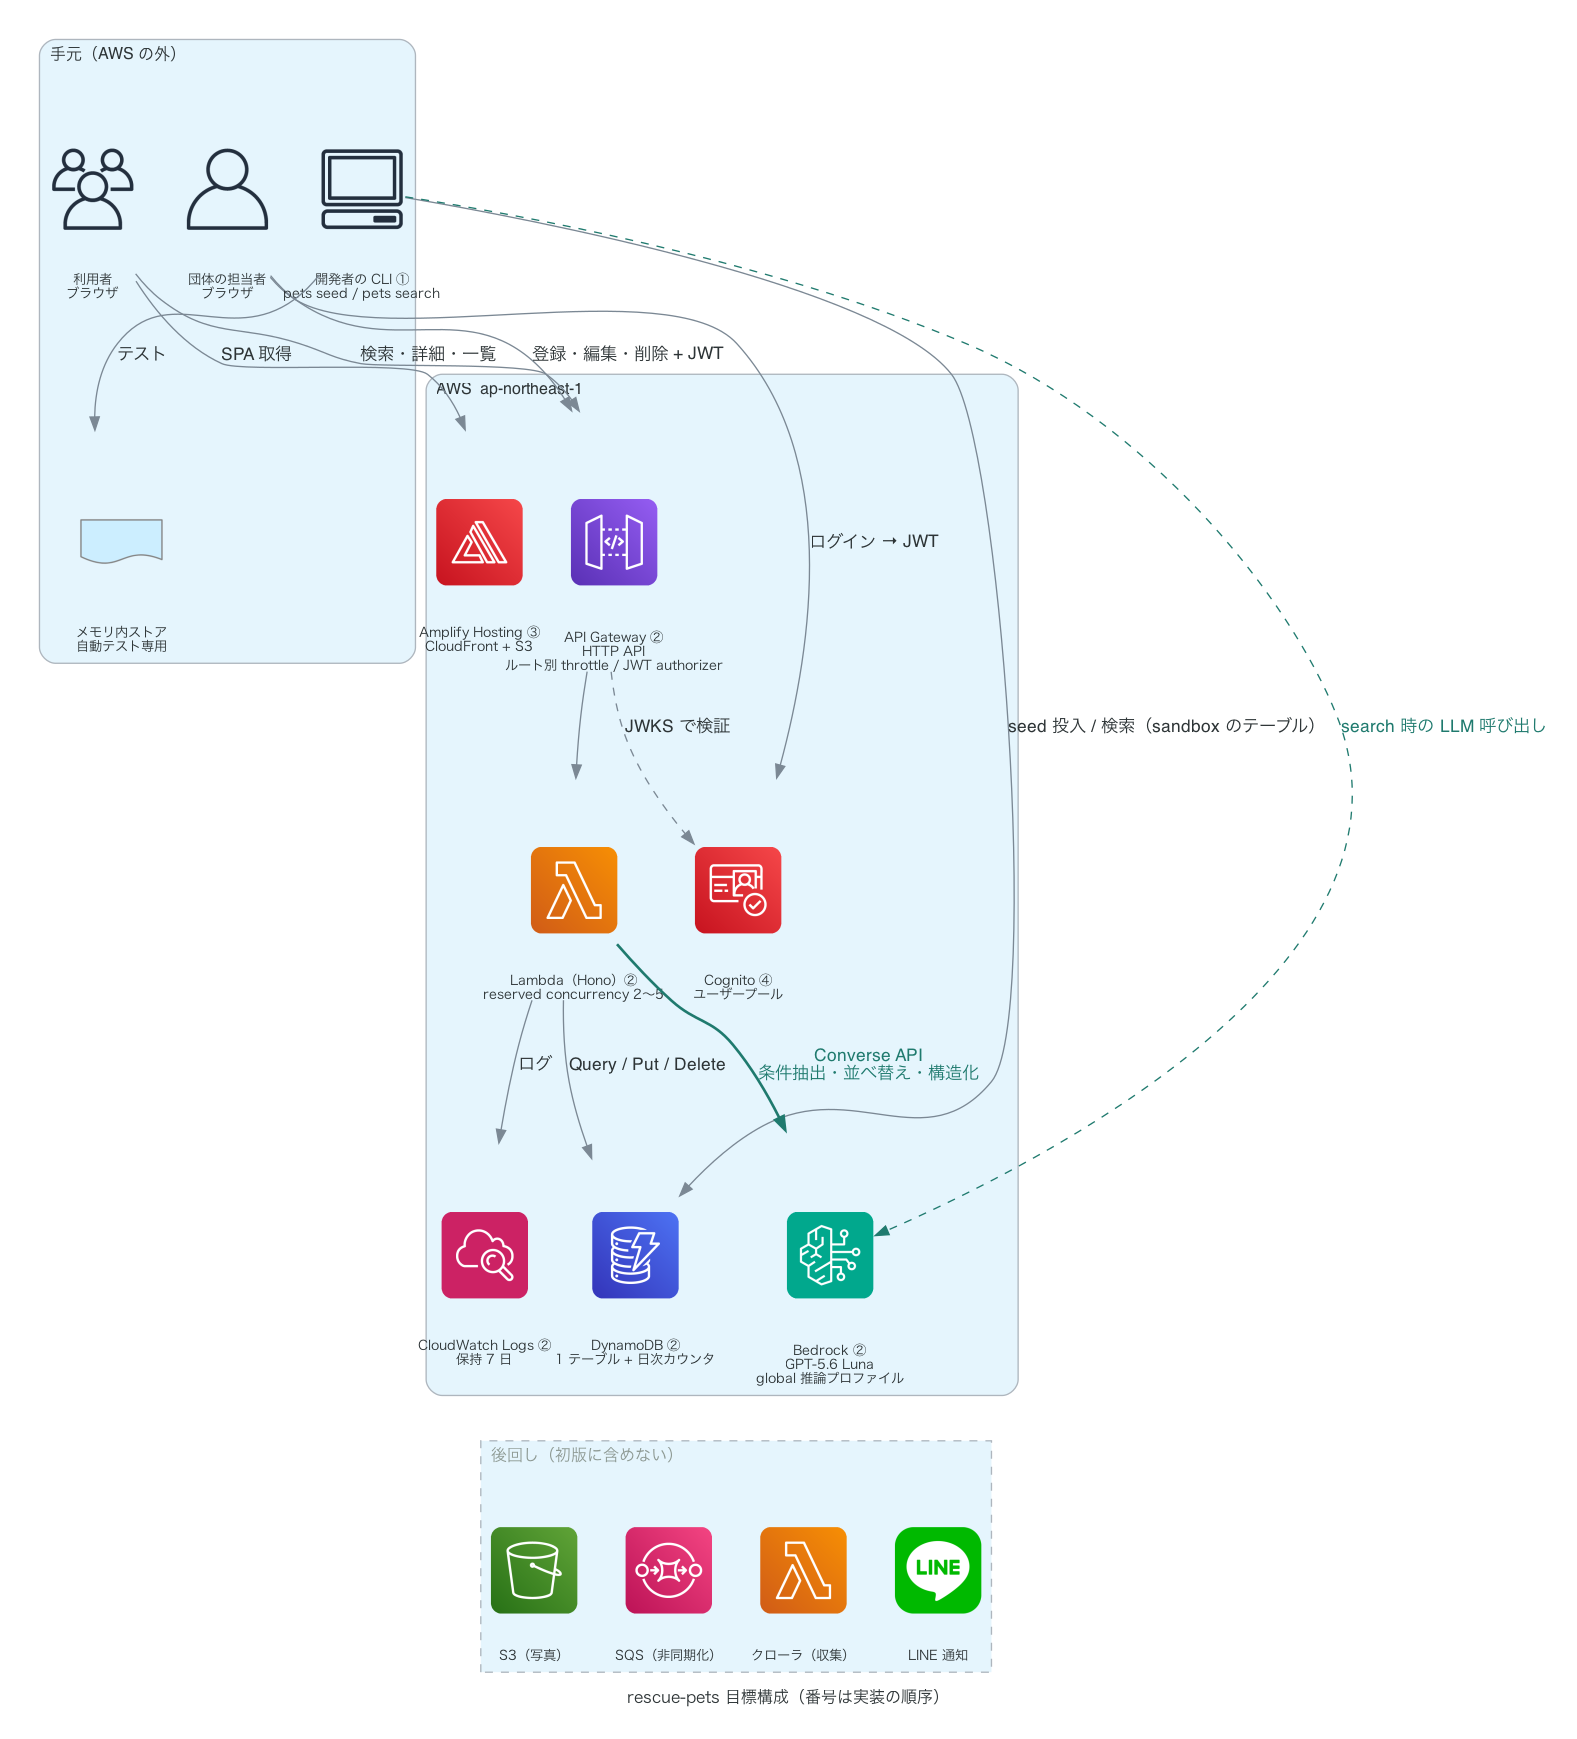
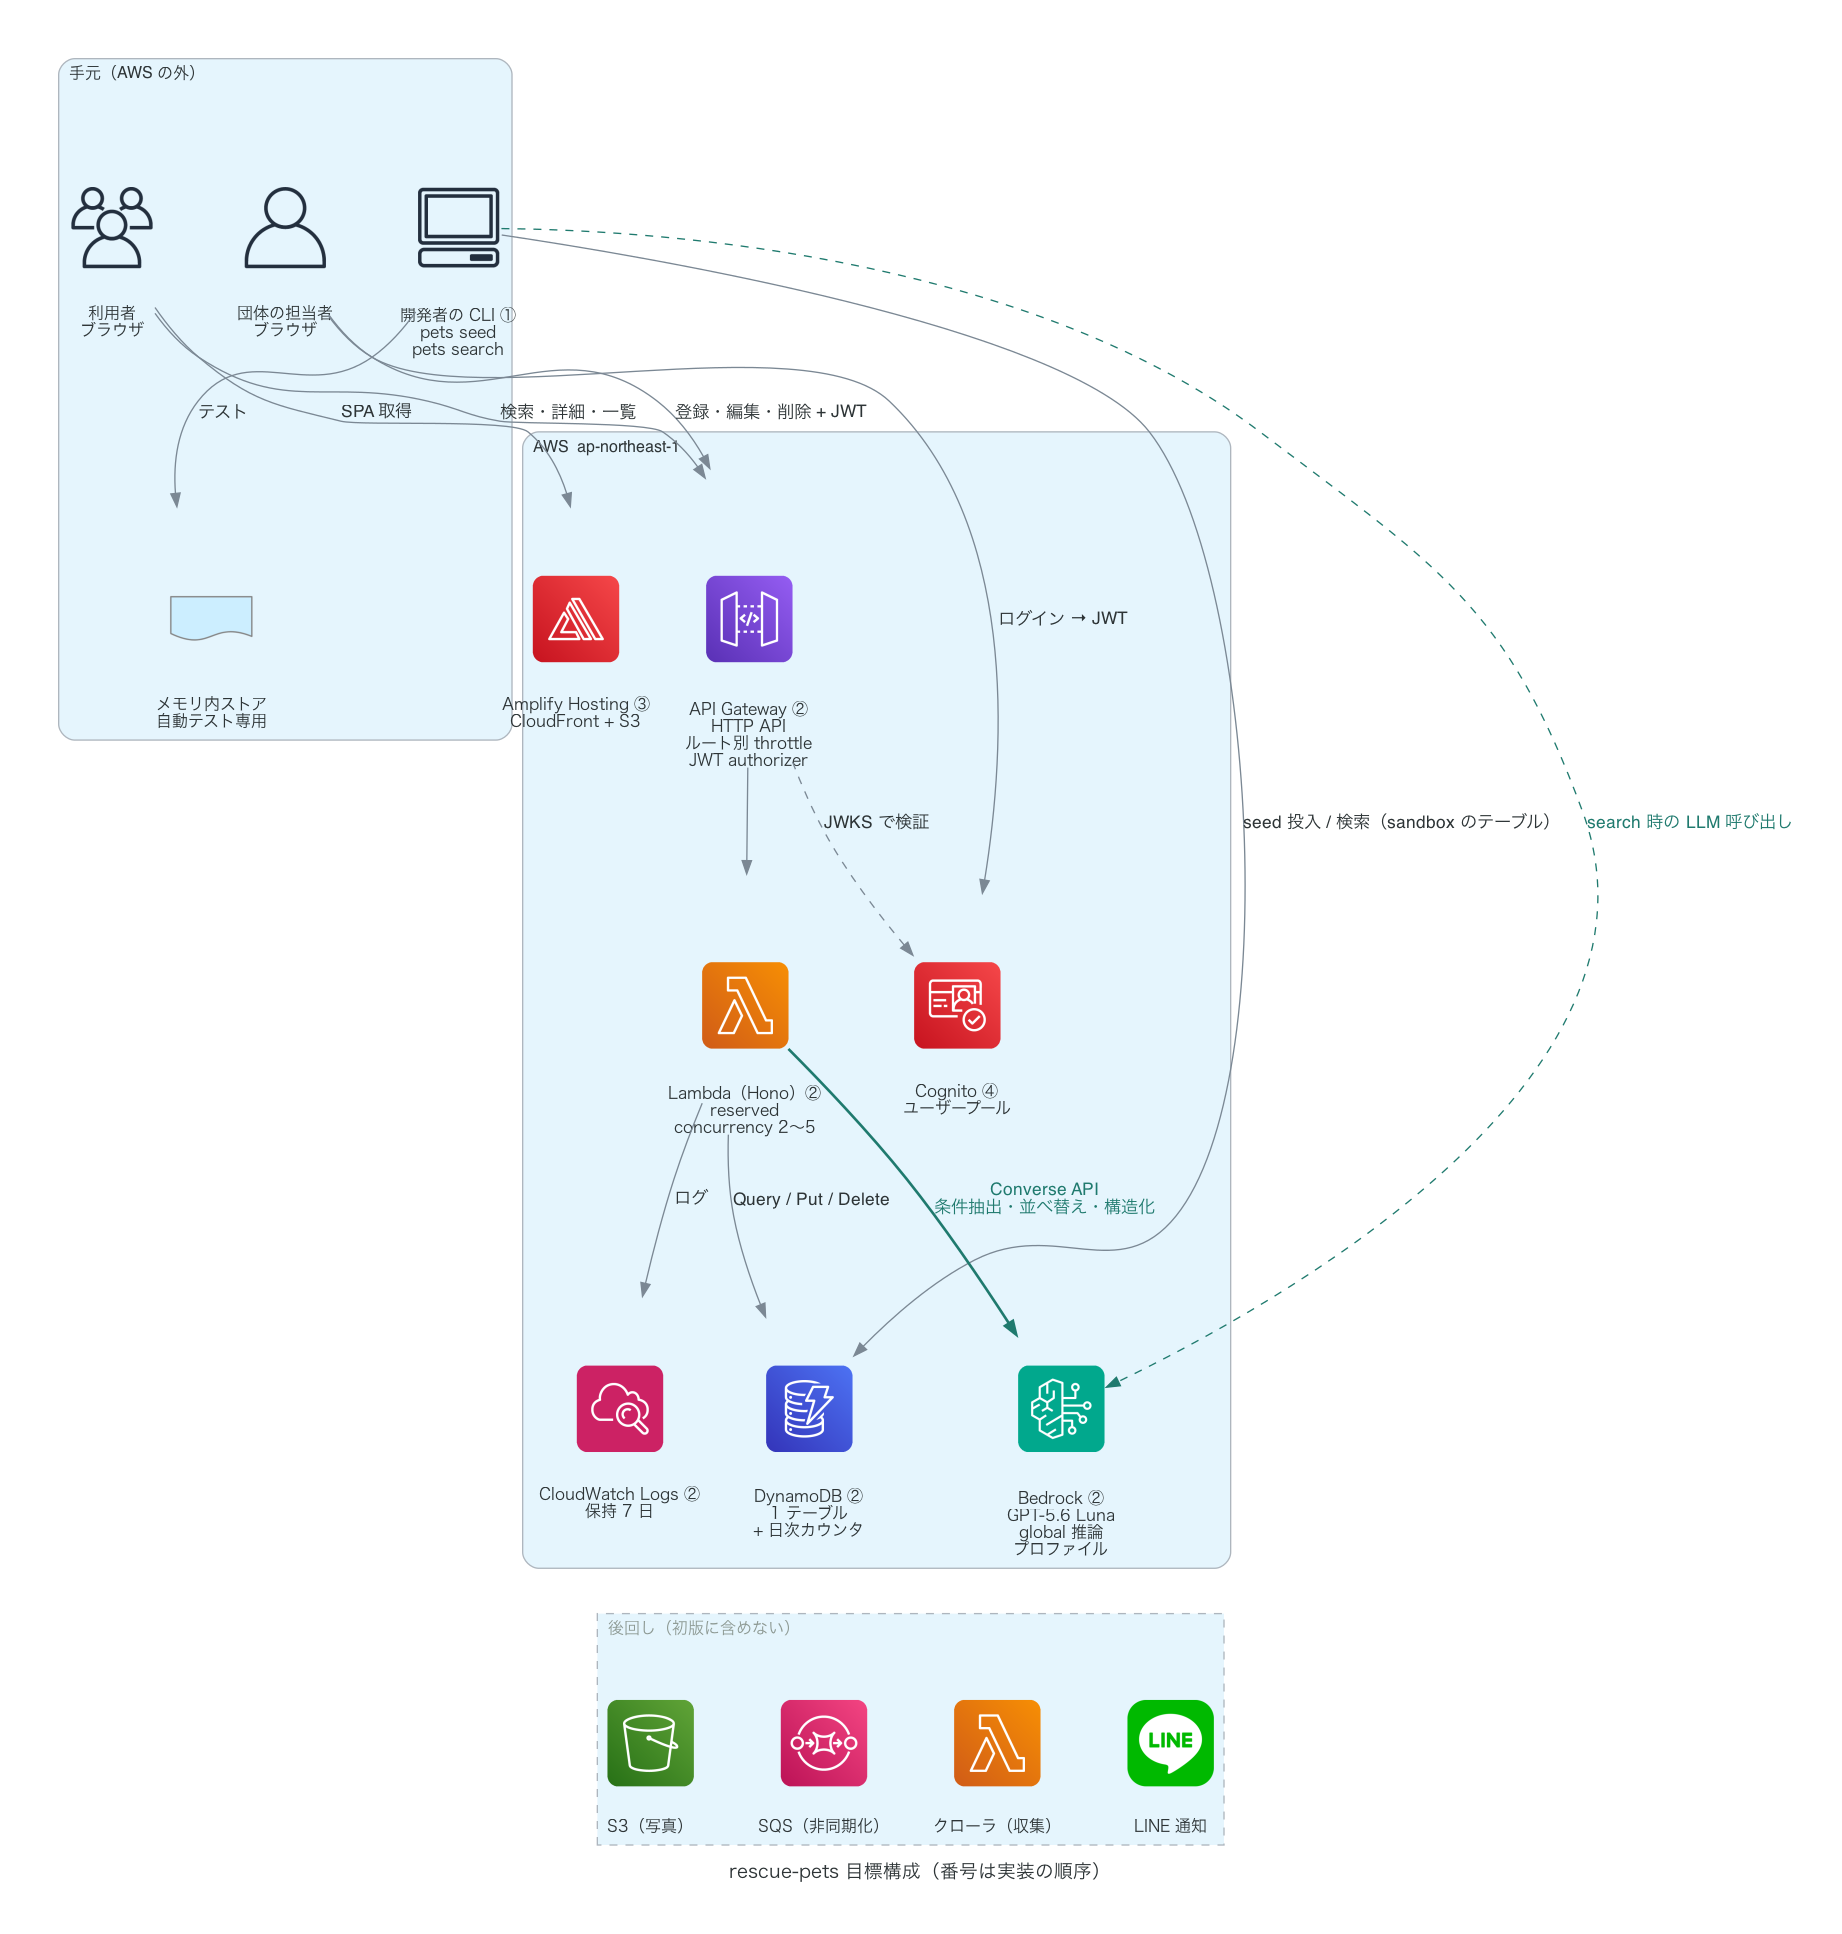
構成図の文字を拡大しラベルの重なりを解消 / Enlarge diagram text and fix overlapping labels

Changed region(s): [[0.0, 0.0, 0.9632, 0.9937], [0.3729, 0.1242, 0.4661, 0.1553], [0.5282, 0.3105, 0.5904, 0.3416]]

diff --git a/docs/diagrams/architecture.py b/docs/diagrams/architecture.py
@@ -29,31 +29,32 @@ except ImportError:
 
 HERE = Path(__file__).resolve().parent  # 出力先をスクリプトの場所に固定する
 FONT = "Hiragino Sans"
-GRAPH = {"fontname": FONT, "fontsize": "12", "pad": "0.3", "nodesep": "0.4", "ranksep": "0.7", "splines": "spline"}
+# 固定幅ノードなので、ラベルは 1 行 10 文字程度に改行し、横の間隔（nodesep）でぶつかりを避ける
+GRAPH = {"fontname": FONT, "fontsize": "14", "pad": "0.5", "nodesep": "0.9", "ranksep": "0.75", "splines": "spline"}
 # 既定（幅 1.4 / 高さ 1.9 インチ）はアイコンが大きすぎるので縮める
-NODE = {"fontname": FONT, "fontsize": "10", "width": "0.9", "height": "1.25"}
-EDGE = {"fontname": FONT, "fontsize": "10"}
+NODE = {"fontname": FONT, "fontsize": "12", "width": "0.9", "height": "1.6"}
+EDGE = {"fontname": FONT, "fontsize": "12"}
 LATER = {"style": "dashed", "color": "#8E9A94", "fontcolor": "#8E9A94"}
 
 with Diagram(
     "rescue-pets 目標構成（番号は実装の順序）",
     filename=str(HERE / "architecture"), outformat="png", show=False, direction="TB",
-    graph_attr={**GRAPH, "ranksep": "0.9", "nodesep": "0.5"}, node_attr=NODE, edge_attr=EDGE,
+    graph_attr={**GRAPH, "ranksep": "0.9"}, node_attr=NODE, edge_attr=EDGE,
 ):
     with Cluster("手元（AWS の外）"):
         user = Users("利用者\nブラウザ")
         org = User("団体の担当者\nブラウザ")
-        cli = Client("開発者の CLI ①\npets seed / pets search")
+        cli = Client("開発者の CLI ①\npets seed\npets search")
         mem = Document("メモリ内ストア\n自動テスト専用")
 
     with Cluster("AWS  ap-northeast-1"):
         hosting = Amplify("Amplify Hosting ③\nCloudFront + S3")
-        api = APIGateway("API Gateway ②\nHTTP API\nルート別 throttle / JWT authorizer")
+        api = APIGateway("API Gateway ②\nHTTP API\nルート別 throttle\nJWT authorizer")
         cognito = Cognito("Cognito ④\nユーザープール")
-        fn = Lambda("Lambda（Hono）②\nreserved concurrency 2〜5")
+        fn = Lambda("Lambda（Hono）②\nreserved\nconcurrency 2〜5")
         logs = Cloudwatch("CloudWatch Logs ②\n保持 7 日")
-        ddb = Dynamodb("DynamoDB ②\n1 テーブル + 日次カウンタ")
-        bedrock = Bedrock("Bedrock ②\nGPT-5.6 Luna\nglobal 推論プロファイル")
+        ddb = Dynamodb("DynamoDB ②\n1 テーブル\n+ 日次カウンタ")
+        bedrock = Bedrock("Bedrock ②\nGPT-5.6 Luna\nglobal 推論\nプロファイル")
 
     with Cluster("後回し（初版に含めない）", graph_attr={"style": "dashed", "color": "#8E9A94", "fontcolor": "#8E9A94"}):
         s3 = S3("S3（写真）")
@@ -84,7 +85,7 @@ with Diagram(
     filename=str(HERE / "deploy-paths"), outformat="png", show=False, direction="LR",
     graph_attr=GRAPH, node_attr=NODE, edge_attr=EDGE,
 ):
-    repo = Git("リポジトリ（ローカル）\namplify/ + src/ + cli/")
+    repo = Git("リポジトリ\n（ローカル）\namplify/ src/ cli/")
 
     with Cluster("A. 開発・検証 — npx ampx sandbox（いつでも作って消せる）"):
         with Cluster("個人用スタック（CloudFormation）"):
@@ -93,7 +94,7 @@ with Diagram(
             a_fn = Lambda("Lambda（Hono）")
             a_ddb = Dynamodb("DynamoDB")
             a_cog = Cognito("Cognito")
-        outputs = Document("amplify_outputs.json\n接続先が書かれる")
+        outputs = Document("amplify_outputs\n.json\n接続先が書かれる")
         dev = Client("npm run dev\n手元のフロント")
         cli = Client("pets seed / search")
 
@@ -101,7 +102,7 @@ with Diagram(
         gh = Github("GitHub（private）")
         app = Amplify("Amplify アプリ\nブランチ接続")
         host = CloudFront("Hosting\nCloudFront + S3")
-        b_stack = Cloudformation("ブランチ用\nバックエンドスタック")
+        b_stack = Cloudformation("ブランチ用\nバックエンド\nスタック")
 
     repo >> Edge(label="CDK deploy・変更を監視") >> cfn
     cfn >> Edge(style="dotted") >> [a_api, a_fn, a_ddb, a_cog]
